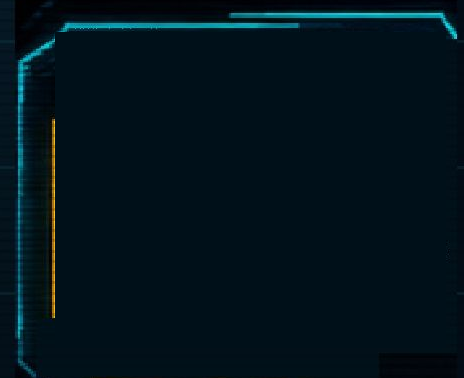
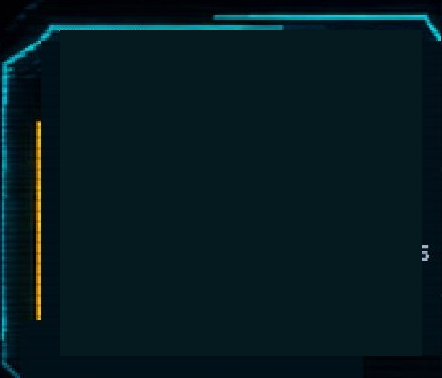
fix(mobile): correct the phone-comp crop rects that cut plate edges
The round-5 extraction rects were derived from a bright-pixel bounding
box that the baked icons and text biased: New Game's rect stopped 25px
above the plate's bottom bevel (so the rendered plate had no bottom
edge), Join Room's started 25px above the plate (baking a strip of page
background where its top bar should be), and the purple card's right
edge sat outside its rect entirely. Exactly the "edges cut off" the
user kept reporting.

All eight phone rects are now read off ruler-overlaid crops of the
comps, with insets and flatten samples rebased to the new geometry and
an erase for the icon shelf that sits inside the gold plate's bottom
band. Every extracted asset now passes a four-edge brightness check,
and the recaptured screens show complete frames on all six home plates
and both competitor cards.

501 unit tests; arcade-regions + tabletopMobile + mobileOverflow +
accessibility e2e 18/18 (chromium).

Claude-Session: https://claude.ai/code/session_01Cb4e8oJrM1C4jyKvRVtA5U

Changed region(s): [[0.0, 0.0, 1.0, 1.0], [0.9412, 0.6402, 0.9706, 0.6984], [0.0588, 0.0, 0.1176, 0.0291]]

diff --git a/apps/web/src/assets/arcade/manifest.ts b/apps/web/src/assets/arcade/manifest.ts
@@ -139,14 +139,14 @@ export const arcadeAssets = {
   "footer-strip-phone": { url: img_footer_strip_phone, width: 706, height: 56, slice: { top: 14, right: 14, bottom: 14, left: 14 } },
   "button-square-menu": { url: img_button_square_menu, width: 82, height: 82 },
   "wordmark-tabletop": { url: img_wordmark_tabletop, width: 672, height: 224 },
-  "badge-phone-signed-in": { url: img_badge_phone_signed_in, width: 1034, height: 226 },
-  "plate-phone-cyan": { url: img_plate_phone_cyan, width: 1034, height: 274 },
-  "plate-phone-gold": { url: img_plate_phone_gold, width: 1016, height: 219 },
-  "plate-phone-purple": { url: img_plate_phone_purple, width: 1012, height: 243 },
-  "plate-phone-green": { url: img_plate_phone_green, width: 1012, height: 230 },
-  "plate-phone-red": { url: img_plate_phone_red, width: 1014, height: 264 },
-  "card-phone-purple": { url: img_card_phone_purple, width: 506, height: 378 },
-  "card-phone-cyan": { url: img_card_phone_cyan, width: 464, height: 378 },
+  "badge-phone-signed-in": { url: img_badge_phone_signed_in, width: 1034, height: 214 },
+  "plate-phone-cyan": { url: img_plate_phone_cyan, width: 1034, height: 264 },
+  "plate-phone-gold": { url: img_plate_phone_gold, width: 1016, height: 242 },
+  "plate-phone-purple": { url: img_plate_phone_purple, width: 1012, height: 210 },
+  "plate-phone-green": { url: img_plate_phone_green, width: 1012, height: 202 },
+  "plate-phone-red": { url: img_plate_phone_red, width: 1014, height: 262 },
+  "card-phone-purple": { url: img_card_phone_purple, width: 548, height: 372 },
+  "card-phone-cyan": { url: img_card_phone_cyan, width: 442, height: 378 },
 } as const satisfies Record<string, ArcadeAsset>;
 
 export type ArcadeAssetName = keyof typeof arcadeAssets;
